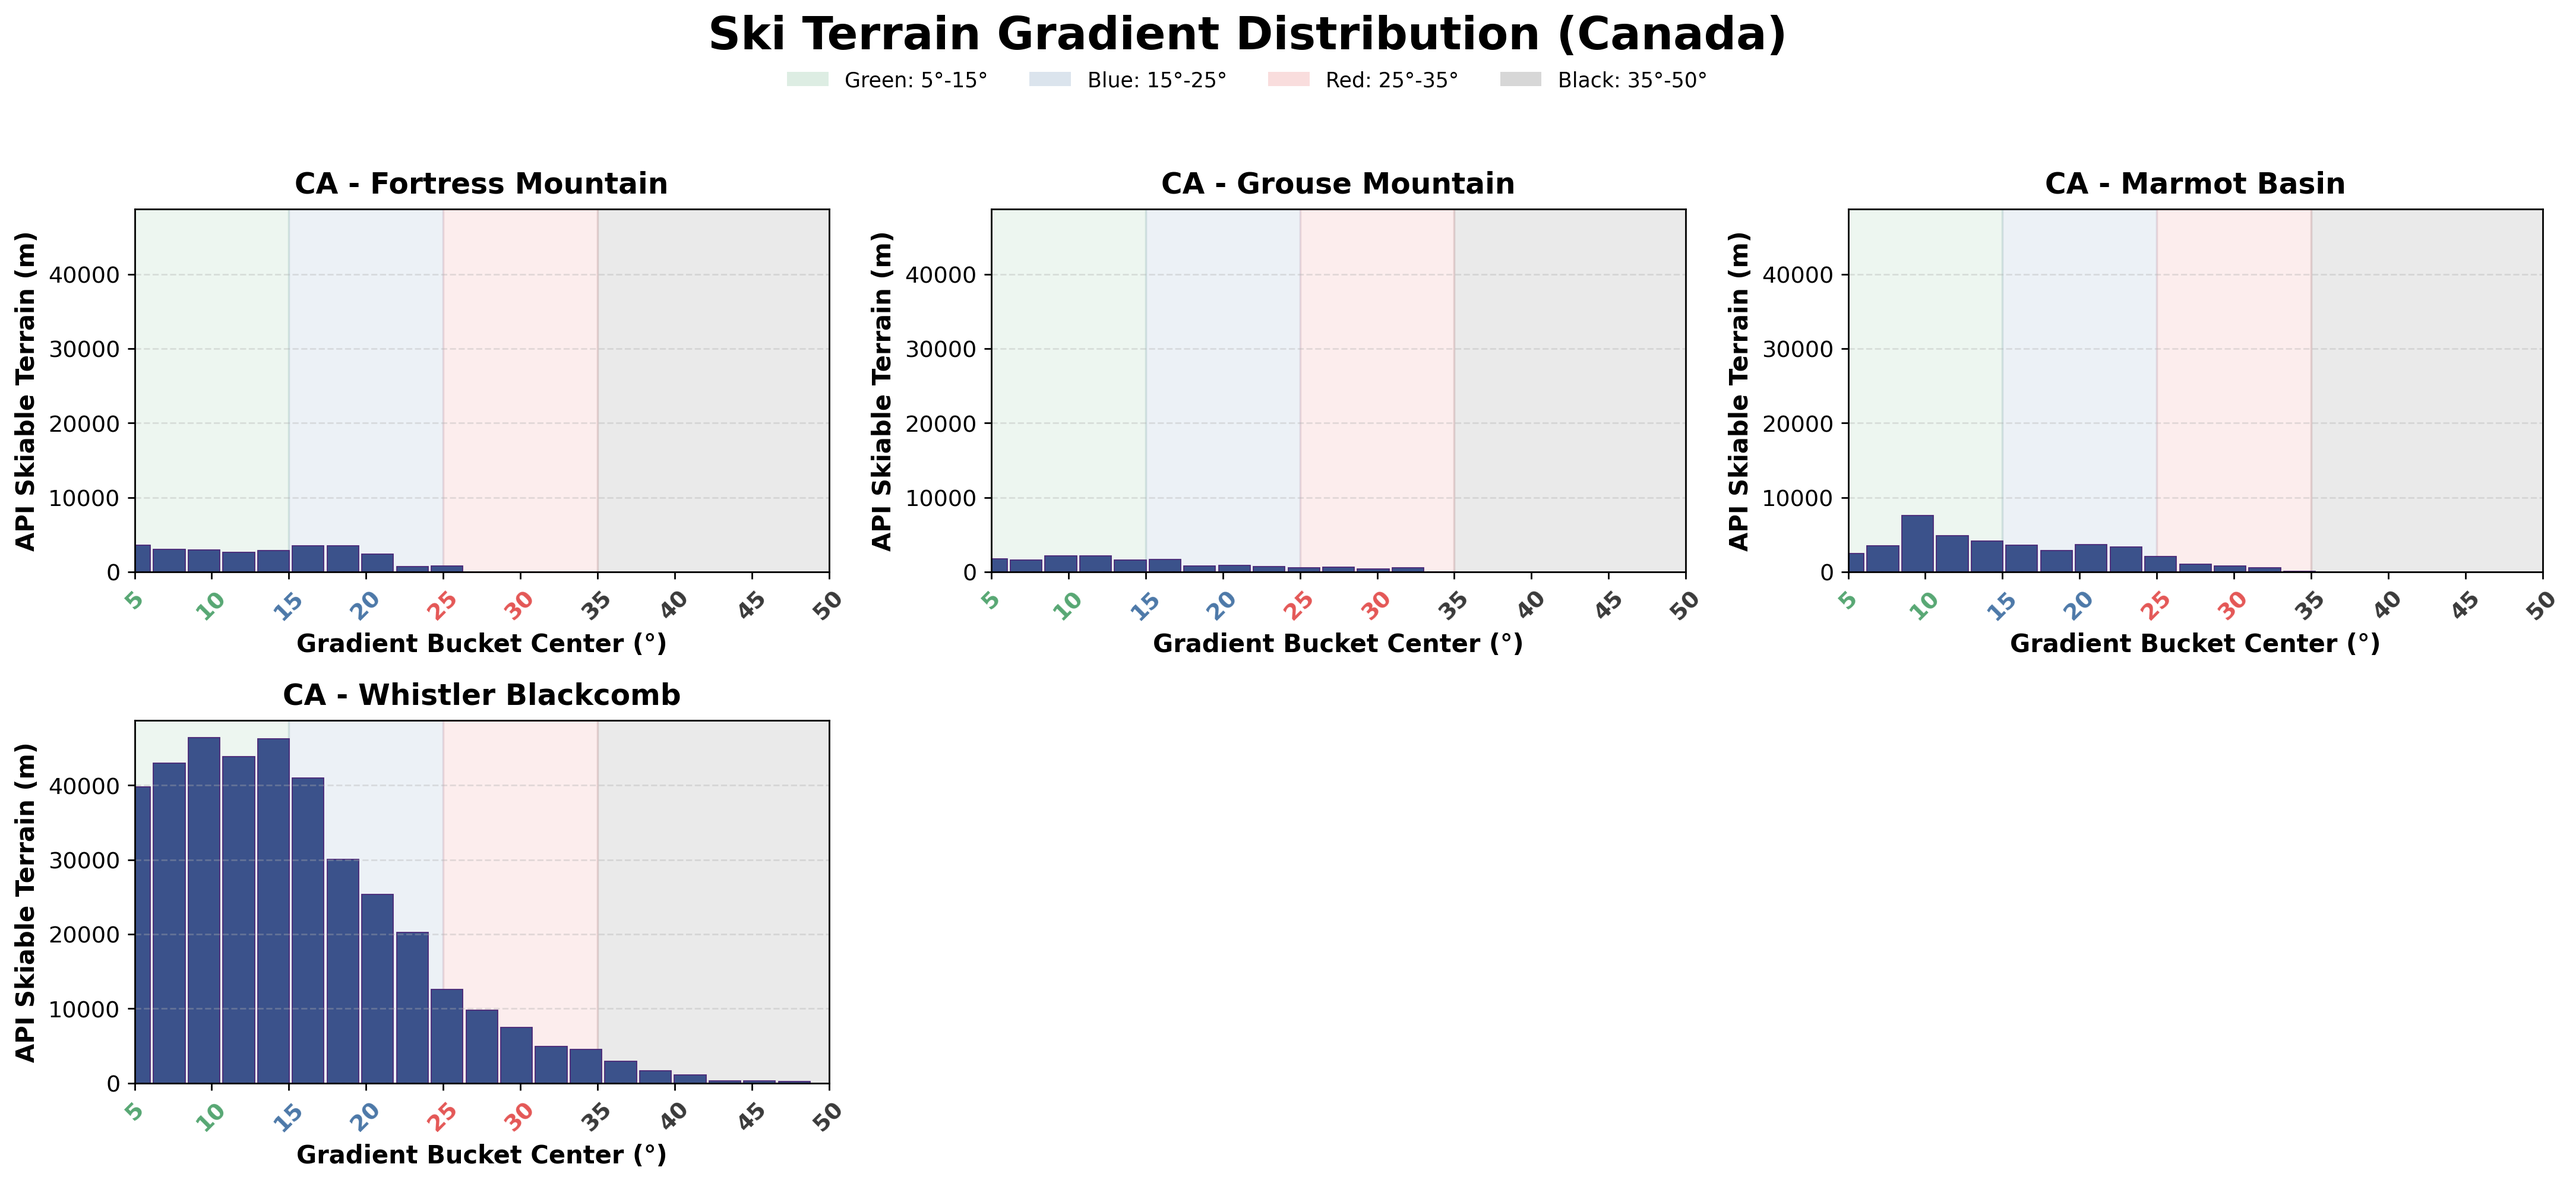
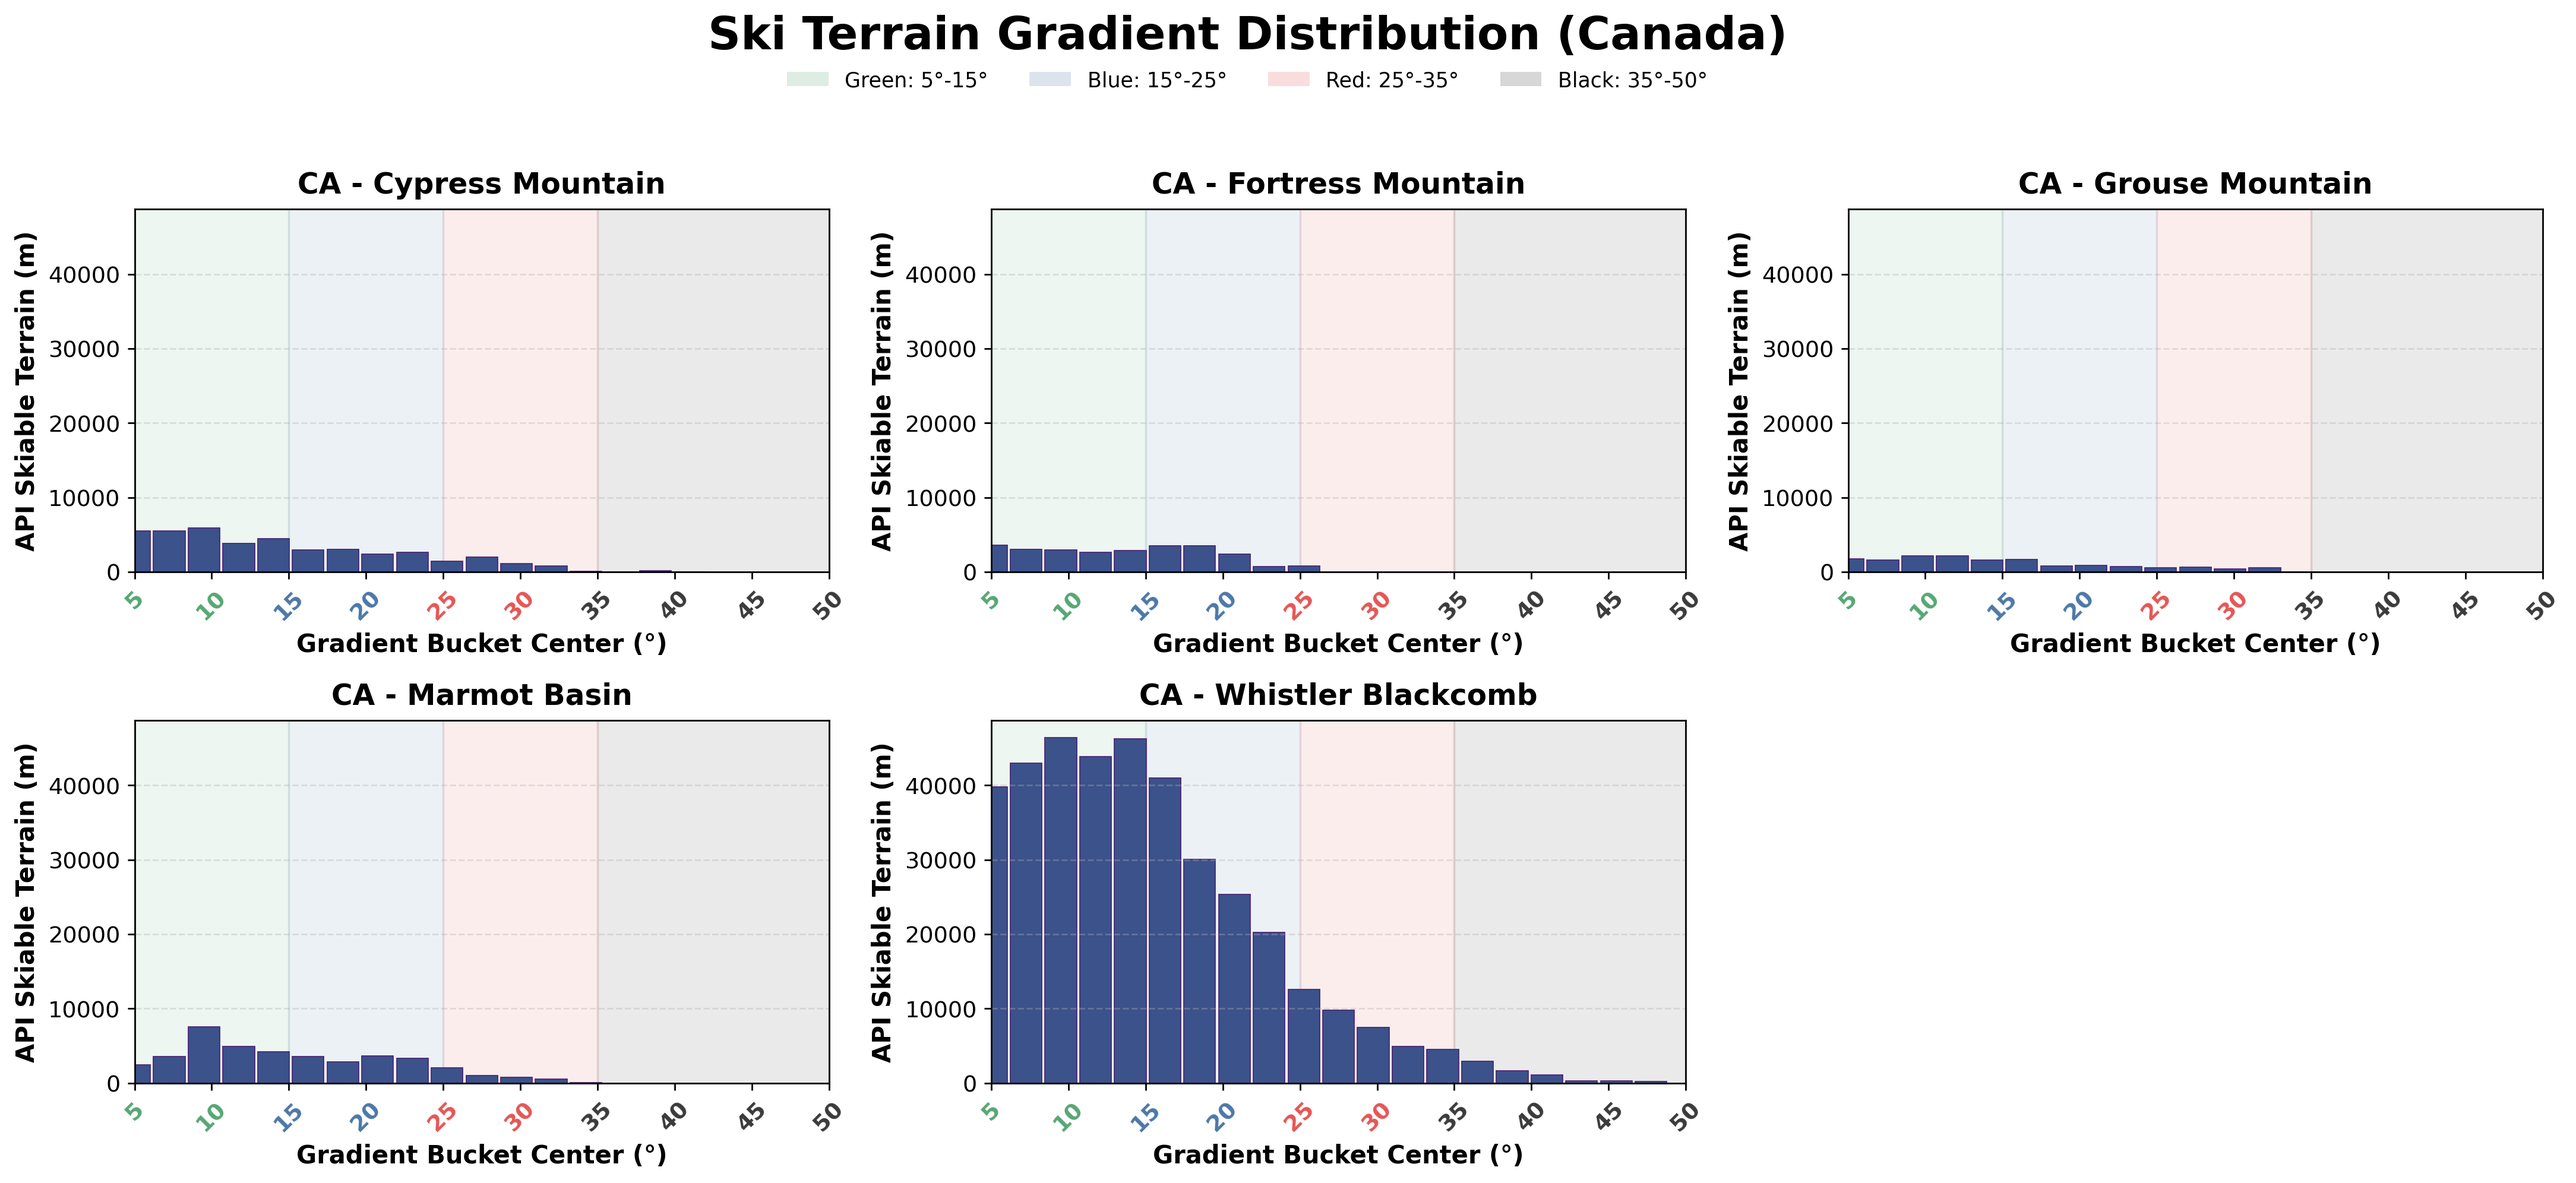
clean up, still need to reverse ski runs entered into the API in the wrong d direction

diff --git a/scripts/ski_run_visual.py b/scripts/ski_run_visual.py
@@ -15,40 +15,6 @@ if not database_string:
     raise ValueError("Missing MD in environment.")
 con = duckdb.connect(database_string)
 
-# --- Separate resorts ---
-NZ_RESORTS = [
-    'Temple Basin Ski Area',
-    'Mount Cheeseman Ski Area',
-    'Mount Dobson Ski Field',
-    'Roundhill Ski Field',
-    'Mount Hutt Ski Area',
-    'Broken River Ski Area',
-    'Porters Ski Area',
-    'Rainbow Ski Area',
-    'Mount Olympus Ski Area',
-    'The Remarkables Ski Area',
-    'Whakapapa Ski Area',
-    'Cardrona Alpine Resort',
-    'Manganui Ski Area',
-    'Coronet Peak Ski Area',
-    'Mount Lyford Alpine Resort',
-    'Treble Cone Ski Area',
-    'Tūroa Ski Area',
-    'Craigieburn Valley Ski Area',
-    'Fox Peak Ski Area'
-]
-
-AU_RESORTS = [
-    'Charlotte Pass', 'Falls Creek', 'Mount Baw Baw', 'Mount Buller',
-    'Mount Hotham', 'Perisher', 'Thredbo Resort'
-]
-
-
-REGIONS = {
-    "New Zealand": NZ_RESORTS,
-    "Australia": AU_RESORTS
-}
-
 # --- Difficulty color palette ---
 difficulty_colors = {
     "novice": "#4daf4a",
@@ -70,48 +36,91 @@ def smooth_elevation(y, window=9, poly=2):
         return y
     return savgol_filter(y, window, poly)
 
+
+def normalize_region(value):
+    if value is None:
+        return "Unknown Region"
+    text = str(value).strip()
+    return text if text else "Unknown Region"
+
+
+def slugify_region(region):
+    return normalize_region(region).lower().replace(' ', '_').replace('/', '_')
+
+
+# --- Load all data once, then split into one chart per region ---
+runs = con.execute("""
+    SELECT osm_id, resort, region, run_name, country_code,
+        CASE WHEN difficulty = 'extreme' THEN 'intermediate'
+             WHEN difficulty = 'expert' THEN 'advanced'
+             ELSE difficulty END AS difficulty,
+        piste_type,
+        run_length_m,
+        n_points
+    FROM camonairflow.public_base.base_filtered_ski_runs
+    WHERE run_length_m > 200
+      AND n_points > 4
+            AND coalesce(piste_type, '') NOT IN ('skitour', 'nordic', 'sled')
+""").df()
+
+points = con.execute("""
+    SELECT p.osm_id, p.resort, r.region, p.distance_along_run_m, p.elevation_m
+    FROM camonairflow.public_base.base_filtered_ski_points AS p
+    INNER JOIN camonairflow.public_base.base_filtered_ski_runs AS r
+        ON p.osm_id = r.osm_id
+       AND p.resort = r.resort
+    WHERE r.run_length_m > 200
+      AND r.n_points > 4
+            AND coalesce(r.piste_type, '') NOT IN ('skitour', 'nordic', 'sled')
+""").df()
+
+gradient_stats = con.execute("""
+    WITH filtered_runs AS (
+        SELECT DISTINCT resort, region
+        FROM camonairflow.public_base.base_filtered_ski_runs
+        WHERE run_length_m > 200
+          AND n_points > 4
+                    AND coalesce(piste_type, '') NOT IN ('skitour', 'nordic', 'sled')
+    )
+    SELECT fr.region,
+        gs.resort,
+        CASE WHEN gs.difficulty = 'extreme' THEN 'intermediate'
+             WHEN gs.difficulty = 'expert' THEN 'advanced'
+             ELSE gs.difficulty END AS difficulty,
+        gs.run_count,
+        gs.mean_gradient_degrees,
+        gs.mean_steepest_degrees,
+        gs.mean_gradient_percent,
+        gs.mean_steepest_percent
+    FROM camonairflow.public_base.base_ski_gradient_stats AS gs
+    INNER JOIN filtered_runs AS fr
+        ON gs.resort = fr.resort
+""").df()
+
+runs['region'] = runs['region'].map(normalize_region)
+points['region'] = points['region'].map(normalize_region)
+gradient_stats['region'] = gradient_stats['region'].map(normalize_region)
+
 # , "percent"
 # --- Plotting loop ---
-for region, resorts in REGIONS.items():
+for region in sorted(runs['region'].dropna().unique()):
+    runs_region = runs[runs['region'] == region].copy()
+    points_region = points[points['region'] == region].copy()
+    gradient_stats_region = gradient_stats[gradient_stats['region'] == region].copy()
+    resorts = sorted(runs_region['resort'].dropna().unique())
+
+    if not resorts or points_region.empty:
+        continue
+
     for label_mode in ["degrees"]:
-        # Load Data
-        points = con.execute(f"""
-            SELECT osm_id, resort, distance_along_run_m, elevation_m
-            FROM camonairflow.public_base.base_filtered_ski_points
-            WHERE resort in {tuple(resorts)}
-        """).df()
-
-        runs = con.execute(f"""
-            SELECT osm_id, resort, run_name, country_code,
-                CASE WHEN difficulty = 'extreme' THEN 'intermediate'
-                     WHEN difficulty = 'expert' THEN 'advanced'
-                     ELSE difficulty END AS difficulty,
-                run_length_m
-            FROM camonairflow.public_base.base_filtered_ski_runs
-            WHERE resort in {tuple(resorts)}
-            and run_length_m > 200
-            and n_points > 4
-        """).df()
-
-        gradient_stats = con.execute(f"""
-            SELECT resort,
-                CASE WHEN difficulty = 'extreme' THEN 'intermediate'
-                     WHEN difficulty = 'expert' THEN 'advanced'
-                     ELSE difficulty END AS difficulty,
-                run_count, mean_gradient_degrees, mean_steepest_degrees,
-                mean_gradient_percent, mean_steepest_percent
-            FROM camonairflow.public_base.base_ski_gradient_stats
-            WHERE resort in {tuple(resorts)}
-        """).df()
-
         # Update color map if any new difficulties appear
-        for diff in runs['difficulty'].dropna().unique():
+        for diff in runs_region['difficulty'].dropna().unique():
             if diff not in difficulty_colors:
                 difficulty_colors[diff] = "#444444"
 
-        max_distance = points['distance_along_run_m'].max() * 1.05
-        min_elev = int(np.floor(points['elevation_m'].min() / 100.0) * 100)
-        max_elev = int(np.ceil(points['elevation_m'].max() / 100.0) * 100)
+        max_distance = points_region['distance_along_run_m'].max() * 1.05
+        min_elev = int(np.floor(points_region['elevation_m'].min() / 100.0) * 100)
+        max_elev = int(np.ceil(points_region['elevation_m'].max() / 100.0) * 100)
 
         # --- Plot setup ---
         ncols = 4
@@ -120,8 +129,8 @@ for region, resorts in REGIONS.items():
         axes = axes.flatten()
 
         for ax, resort in zip(axes, resorts):
-            runs_this = runs[runs['resort'] == resort]
-            points_this = points[points['resort'] == resort]
+            runs_this = runs_region[runs_region['resort'] == resort]
+            points_this = points_region[points_region['resort'] == resort]
             for _, run in runs_this.iterrows():
                 pts = points_this[points_this['osm_id'] == run['osm_id']].sort_values('distance_along_run_m')
                 if len(pts) > 1 and pts.iloc[0]['elevation_m'] < pts.iloc[-1]['elevation_m']:
@@ -147,7 +156,7 @@ for region, resorts in REGIONS.items():
             ax.set_ylim(min_elev, max_elev)
 
             # Avg gradient labels
-            labels_this = gradient_stats[gradient_stats['resort'] == resort]
+            labels_this = gradient_stats_region[gradient_stats_region['resort'] == resort]
             if not labels_this.empty:
                 labels_this = labels_this.sort_values(
                     'mean_gradient_degrees' if label_mode == "degrees" else 'mean_gradient_percent',
@@ -194,8 +203,8 @@ for region, resorts in REGIONS.items():
         )
         plt.tight_layout(rect=(0, 0.03, 1, 0.96))
         plt.subplots_adjust(hspace=0.36, wspace=0.18)
-        out_path = f"charts/ski_run_elevations_matplotlib_{region.lower().replace(' ', '_')}_{label_mode}.png"
+        out_path = f"charts/ski_run_elevations_matplotlib_{slugify_region(region)}_{label_mode}.png"
         plt.savefig(out_path, dpi=300, bbox_inches='tight')
-        plt.show()
+        plt.close(fig)
 
 con.close()

diff --git a/pipelines/Ski_runs.py b/pipelines/Ski_runs.py
@@ -47,9 +47,7 @@ SKI_FIELDS = [
     # {"name": "Fernie Alpine", "country": "CA", "region": "British Columbia"},
     # {"name": "Kicking Horse", "country": "CA", "region": "British Columbia"},
     # {"name": "Red Mountain", "country": "CA", "region": "British Columbia"},
-    # {"name": "Silver Star", "country": "CA", "region": "British Columbia"},
-    # {"name": "Sun Peaks", "country": "CA", "region": "British Columbia"},
-    # {"name": "Cypress Mountain", "country": "CA", "region": "British Columbia"},
+    {"name": "Cypress Mountain", "country": "CA", "region": "British Columbia"},
     {"name": "Grouse Mountain", "country": "CA", "region": "British Columbia"},
     {"name": "Marmot Basin", "country": "CA", "region": "Alberta"},
     {"name": "Fortress Mountain Resort", "country": "CA", "region": "Alberta"},
